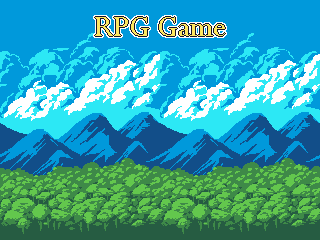
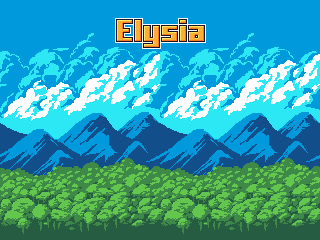
Project got renamed

Changed region(s): [[0.2812, 0.0583, 0.7188, 0.2042]]

diff --git a/README.md b/README.md
@@ -1,9 +1,9 @@
-# RPG Game
+# Elysia
 
-[![Build Status](https://travis-ci.com/Acid147/rpg-game.svg?branch=master)](https://travis-ci.com/Acid147/rpg-game)
-[![Lines of Code](https://tokei.rs/b1/github/Acid147/rpg-game)](https://github.com/Aaronepower/tokei)
+[![Build Status](https://travis-ci.com/Acid147/elysia.svg?branch=master)](https://travis-ci.com/Acid147/elysia)
+[![Lines of Code](https://tokei.rs/b1/github/Acid147/elysia)](https://github.com/Aaronepower/tokei)
 
-**RPG Game** is a single-player 2D tactical RPG.
+**Elysia** is a single-player 2D tactical RPG.
 
 It is built on [HaxeFlixel](https://github.com/HaxeFlixel).
 
